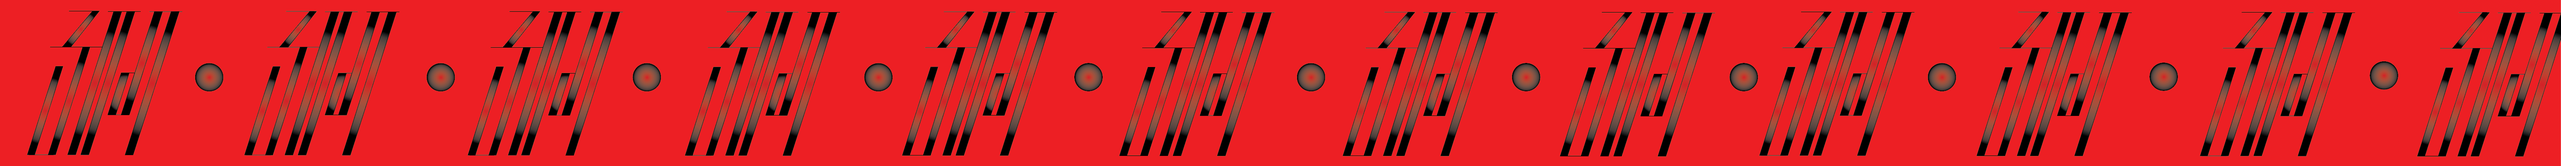
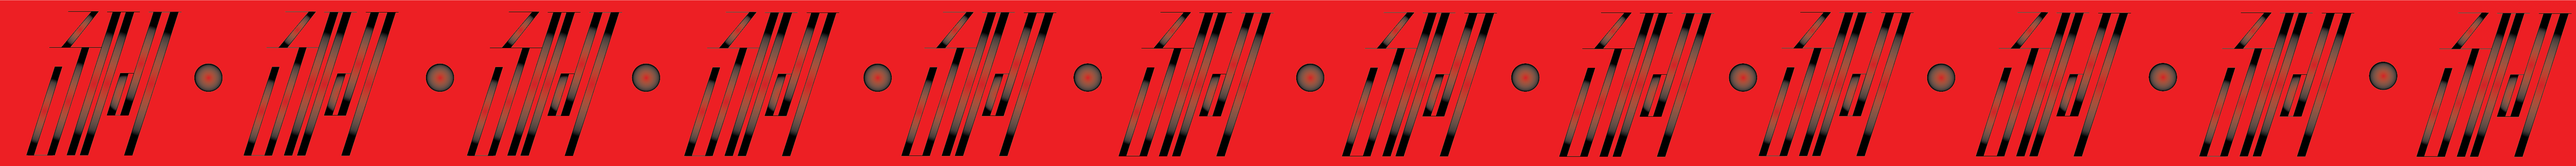
Make size changes in lifafa

Changed region(s): [[0.0, 0.0584, 1.0, 0.9635]]

diff --git a/_typography/lifafa.md b/_typography/lifafa.md
@@ -21,7 +21,7 @@ layout: base
                     <img src="{{site.baseurl}}assets/images/typography/lifafa-no-background.png">
                 </div>
             </div>
-            <div class="absolute xl:w-[410px] md:w-[320px] w-[180px] xl:bottom-[50px] bottom-[45px] xl:right-[470px] md:right-[200px] right-[160px] drop-shadow-2xl -rotate-18 lifafa-card">
+            <div class="absolute xl:w-[270px] md:w-[170px] w-[100px] xl:bottom-[70px] bottom-[70px] xl:right-[470px] md:right-[280px] right-[240px] drop-shadow-2xl -rotate-18 lifafa-card">
                 <div class="relative">
                     <img src="{{site.baseurl}}assets/images/typography/lifafa-no-background.png">
                 </div>

diff --git a/_layouts/home.md b/_layouts/home.md
@@ -29,7 +29,7 @@ layout: base
     </div>
 </div>
 <div class="font-[Instrument_Serif] min-h-[720px] max-w-full text-white justify-center opacity-0 fade-up flex flex-col md:mx-20 mx-5">
-    <div class="md:text-[64px] text-[48px]">
+    <div class="md:text-[64px] text-[48px] italic">
         works
     </div>
     <div class="grid grid-cols-10 md:grid-rows-1 grid-rows-2 xl:gap-10 gap-5">
